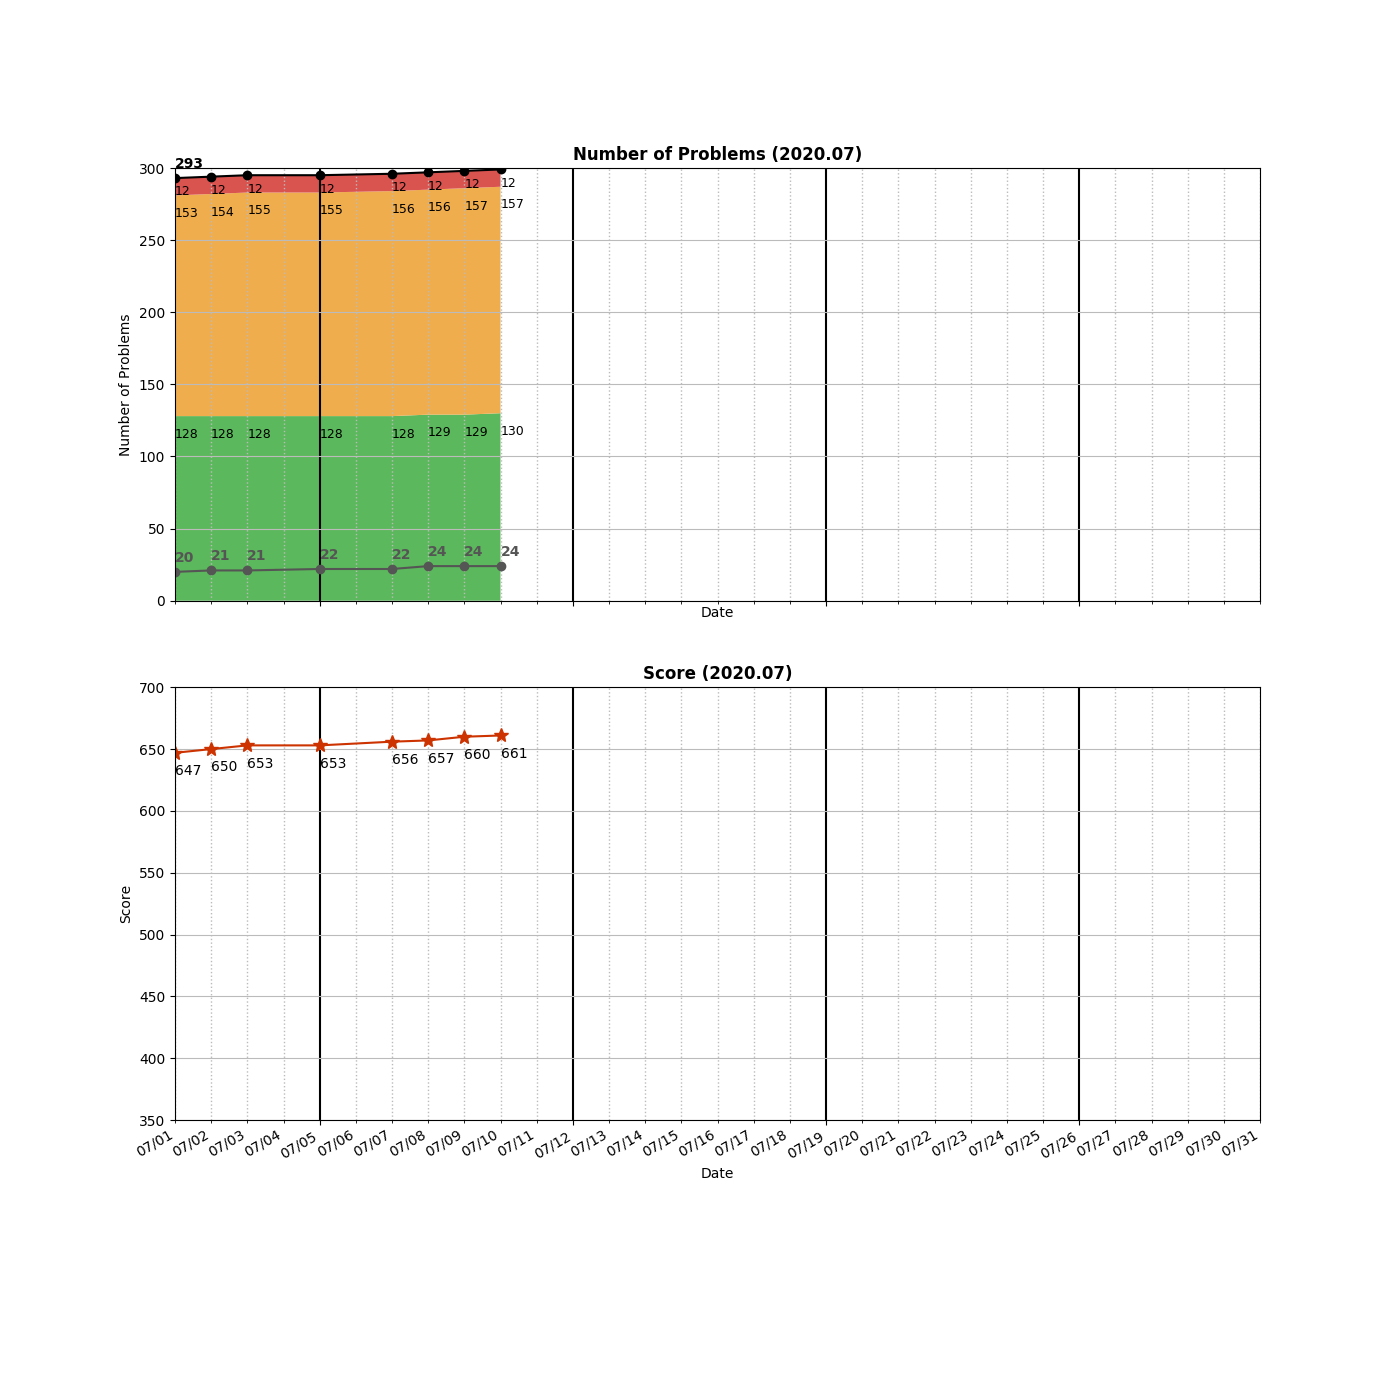
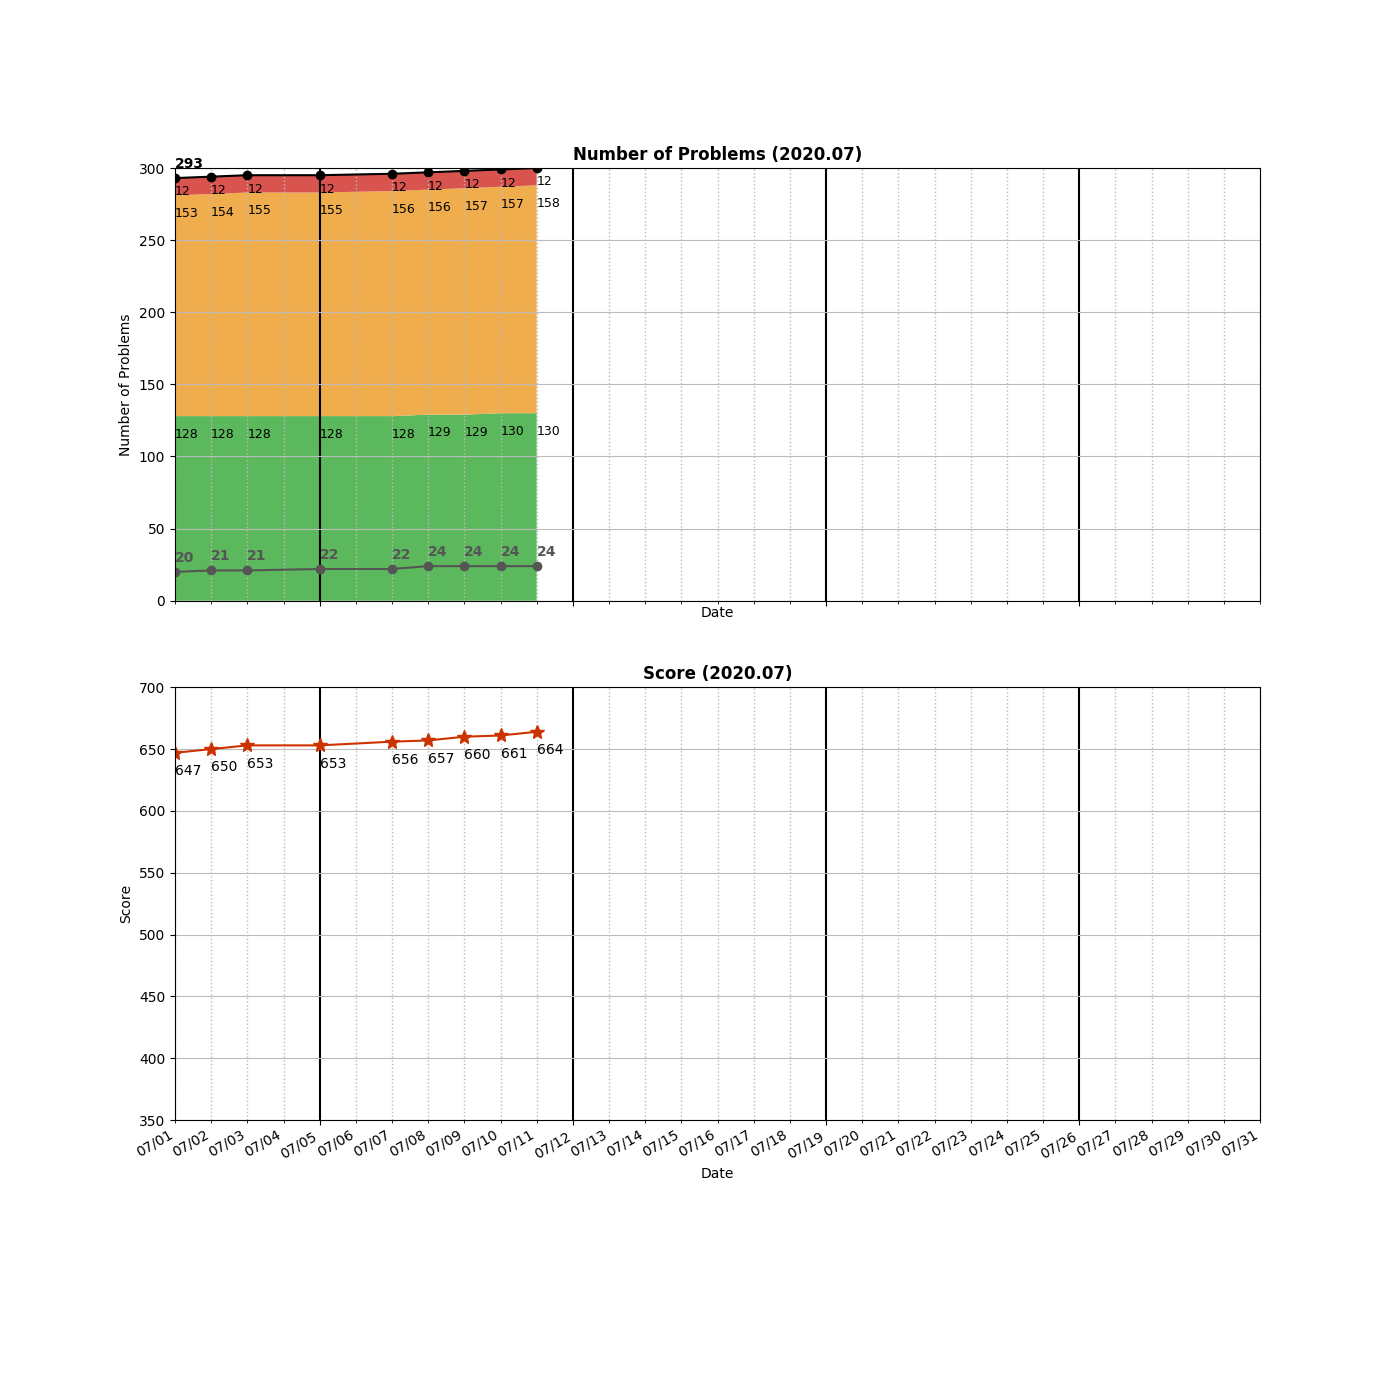
Added _0951_FlipEquivalentBinaryTrees.py

Changed region(s): [[0.3379, 0.1229, 0.3993, 0.43], [0.3686, 0.5221, 0.3993, 0.5529]]

diff --git a/algo/tree/_0951_FlipEquivalentBinaryTrees.py b/algo/tree/_0951_FlipEquivalentBinaryTrees.py
@@ -1,0 +1,106 @@
+# Definition for a binary tree node.
+# class TreeNode:
+#     def __init__(self, val=0, left=None, right=None):
+#         self.val = val
+#         self.left = left
+#         self.right = right
+    
+class Solution:
+    
+    # Recursive [29%]
+    def flipEquiv(self, root1: TreeNode, root2: TreeNode) -> bool:
+        if not root1 and not root2:
+            return True
+        if not root1 or not root2:
+            return False
+        if root1.val != root2.val:
+            return False
+        
+        LL  = self.flipEquiv(root1.left, root2.left)
+        LR  = self.flipEquiv(root1.left, root2.right)
+        RL  = self.flipEquiv(root1.right, root2.left)
+        RR  = self.flipEquiv(root1.right, root2.right)
+        
+        if LL and RR:
+            return True
+        if LR and RL:
+            return True
+        return False
+
+
+#     def flipEquiv(self, root1: TreeNode, root2: TreeNode) -> bool:
+#         if not root1 or not root2:
+#             return False
+        
+#         if root1.val != root2.val:
+#             return False
+#         print("me:", root1.val, root2.val)
+#         return self.flipEquivNextLayer(root1, root2)
+    
+#     def flipEquivNextLayer(self, root1, root2):
+#         if not root1 and root2:
+#             return False
+        
+#         if not root2 and root1:
+#             return False
+#         print("me:", root1.val, root2.val)
+# #         if not root1.left and root2.left and root2.right:
+# #             return False
+        
+# #         if not root1.right and root2.left and root2.right:
+# #             return False
+        
+# #         if not root2.left and root1.left and root1.right:
+# #             return False
+        
+# #         if not root2.right and root1.left and root1.right:
+# #            return False
+        
+        
+#         #print("root1:", root1.left.val, root1.right.val, "root2:", root2.left.val, root2.right.val)
+        
+#         if not root1.left and not root1.right: #0
+#             print("0")
+#             if not root2.left and not root2.right: 
+#                 return True
+#             return False
+        
+#         if root1.left and not root1.right: #1: root1.left
+#             print("1: root1.left")
+#             if not root2.left and not root2.right:
+#                 return False
+#             if root2.left and root2.right:
+#                 return False
+#             if root2.right:
+#                 self.flipEquivNextLayer(root1.left, root2.right)
+#             if root2.left:
+#                 self.flipEquivNextLayer(root1.left, root2.left)
+                
+#         if not root1.left and root1.right: #1: root1.right
+#             print("2: root1.right")
+#             if not root2.left and not root2.right:
+#                 return False
+#             if root2.left and root2.right:
+#                 return False
+#             if root2.right:
+#                 self.flipEquivNextLayer(root1.right, root2.right)
+#             if root2.left:
+#                 self.flipEquivNextLayer(root1.right, root2.left)
+        
+                    
+#         if root1.left and root1.right: #2
+#             print("3: root1.left and root1.right")
+#             if not root2.left or not root2.right:
+#                 print("FFF")
+#                 return False
+#             if root1.left.val == root2.left.val and root1.right.val == root2.right.val:  #true
+#                 if not self.flipEquivNextLayer(root1.left, root2.left):
+#                     return False              
+#                 if not self.flipEquivNextLayer(root1.right, root2.right):
+#                     return False
+#             if root1.left.val == root2.right.val and root1.right.val == root2.left.val:
+#                 if not self.flipEquivNextLayer(root1.left, root2.left):
+#                     return False              
+#                 if not self.flipEquivNextLayer(root1.right, root2.right):
+#                     return False
+#             return True

diff --git a/README.md b/README.md
@@ -300,6 +300,7 @@ algo
 │   ├── _0701_InsertIntoABinarySearchTree.py
 │   ├── _0783_MinimumDistanceBetweenBSTNodes.py
 │   ├── _0938_RangeSumOfBST.py
+│   ├── _0951_FlipEquivalentBinaryTrees.py
 │   ├── _1022_SumOfRootToLeafBinaryNumbers.py
 │   └── _1214_TwoSumBSTs.py
 ├── two-pointer
@@ -323,7 +324,7 @@ algo
     ├── _0127_WordLadder_TLE.py
     └── _0127_WordLadder_wrong.py
 
-25 directories, 297 files
+25 directories, 298 files
 
 =====================================
 ============= Local Repo ============
@@ -600,6 +601,7 @@ _0914_XOfAKindInADeckOfCards.py
 _0935_KnightDialer.py
 _0938_RangeSumOfBST.py
 _0946_ValidateStackSequences.py
+_0951_FlipEquivalentBinaryTrees.py
 _0953_VerifyingAnAlienDictionary.py
 _0957_PrisonCellsAfterNDays.py
 _0973_KClosestPointsToOrigin.py
@@ -625,7 +627,7 @@ _1358_NumberOfSubstringsContainingAllThreeCharacters.py
 _1391_CheckIfThereIsAValidPathInAGrid.py
 _1427_PerformStringShifts.py
 =====================================
-Num of Python Practice:  296
+Num of Python Practice:  297
 
 
 =====================================
@@ -905,6 +907,7 @@ Num of Python Practice:  296
  0935 Knight Dialer
  0938 Range Sum of BST
  0946 Validate Stack Sequences
+ 0951 Flip Equivalent Binary Trees
  0953 Verifying an Alien Dictionary
  0957 Prison Cells After N Days
  0973 K Closest Points to Origin
@@ -932,10 +935,10 @@ Num of Python Practice:  296
  1427 Perform String Shifts
 =====================================
 Solved / Total (Easy)  :  130 /  421
-Solved / Total (Medium):  157 /  770
+Solved / Total (Medium):  158 /  770
 Solved / Total (Hard)  :   12 /  315
-Solved / Total (All)   :  299 / 1506
-Total Score            :  661
+Solved / Total (All)   :  300 / 1506
+Total Score            :  664
 =====================================
 
 ```
